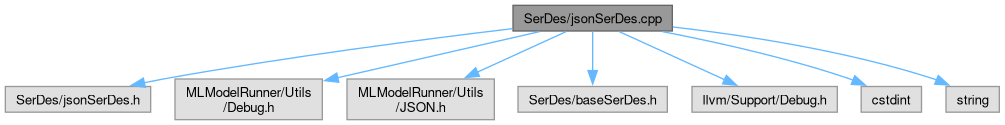
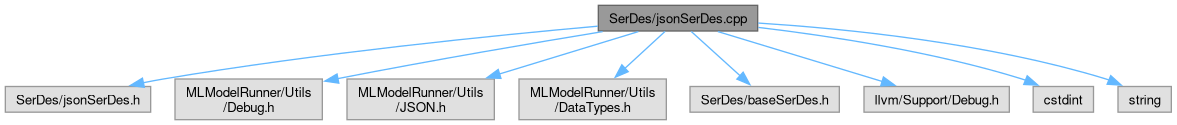
deploy: 6a7dd32515c90f0d645d4e1451f34c4dceefe4fa

Changed region(s): [[0.0, 0.024, 1.0, 0.984], [0.5244, 0.504, 0.5552, 0.6], [0.3393, 0.48, 0.401, 0.552]]

diff --git a/d7/db9/jsonSerDes_8cpp_source.html b/d7/db9/jsonSerDes_8cpp_source.html
@@ -93,131 +93,132 @@ $(function() { codefold.init(1); });
 <div class="line"><a id="l00007" name="l00007"></a><span class="lineno">    7</span><span class="preprocessor">#include &quot;SerDes/jsonSerDes.h&quot;</span></div>
 <div class="line"><a id="l00008" name="l00008"></a><span class="lineno">    8</span><span class="preprocessor">#include &quot;MLModelRunner/Utils/Debug.h&quot;</span></div>
 <div class="line"><a id="l00009" name="l00009"></a><span class="lineno">    9</span><span class="preprocessor">#include &quot;MLModelRunner/Utils/JSON.h&quot;</span></div>
-<div class="line"><a id="l00010" name="l00010"></a><span class="lineno">   10</span><span class="preprocessor">#include &quot;SerDes/baseSerDes.h&quot;</span></div>
-<div class="line"><a id="l00011" name="l00011"></a><span class="lineno">   11</span><span class="preprocessor">#include &quot;llvm/Support/Debug.h&quot;</span></div>
-<div class="line"><a id="l00012" name="l00012"></a><span class="lineno">   12</span><span class="preprocessor">#include &lt;cstdint&gt;</span></div>
-<div class="line"><a id="l00013" name="l00013"></a><span class="lineno">   13</span><span class="preprocessor">#include &lt;string&gt;</span></div>
-<div class="line"><a id="l00014" name="l00014"></a><span class="lineno">   14</span> </div>
-<div class="line"><a id="l00015" name="l00015"></a><span class="lineno"><a class="line" href="../../d7/db9/jsonSerDes_8cpp.html#ad78e062f62e0d6e453941fb4ca843e4d">   15</a></span><span class="preprocessor">#define DEBUG_TYPE &quot;json-serdes&quot;</span></div>
-<div class="line"><a id="l00016" name="l00016"></a><span class="lineno">   16</span> </div>
-<div class="line"><a id="l00017" name="l00017"></a><span class="lineno">   17</span><span class="keyword">using namespace </span><a class="code hl_namespace" href="../../d9/d4a/namespacellvm.html">llvm</a>;</div>
-<div class="line"><a id="l00018" name="l00018"></a><span class="lineno">   18</span> </div>
-<div class="line"><a id="l00019" name="l00019"></a><span class="lineno">   19</span><span class="keyword">namespace </span><a class="code hl_namespace" href="../../d5/d9c/namespaceMLBridge.html">MLBridge</a> {</div>
-<div class="line"><a id="l00020" name="l00020"></a><span class="lineno">   20</span><span class="keywordtype">void</span> *JsonSerDes::getSerializedData() {</div>
-<div class="line"><a id="l00021" name="l00021"></a><span class="lineno">   21</span>  <span class="keyword">auto</span> tempJO = J;</div>
-<div class="line"><a id="l00022" name="l00022"></a><span class="lineno">   22</span>  <span class="keyword">auto</span> data = json::Value(std::move(tempJO));</div>
-<div class="line"><a id="l00023" name="l00023"></a><span class="lineno">   23</span>  <span class="keyword">auto</span> *ret = <span class="keyword">new</span> std::string();</div>
-<div class="line"><a id="l00024" name="l00024"></a><span class="lineno">   24</span>  llvm::raw_string_ostream OS(*ret);</div>
-<div class="line"><a id="l00025" name="l00025"></a><span class="lineno">   25</span>  json::OStream(OS).value(data);</div>
-<div class="line"><a id="l00026" name="l00026"></a><span class="lineno">   26</span>  cleanDataStructures();</div>
-<div class="line"><a id="l00027" name="l00027"></a><span class="lineno">   27</span>  <span class="keywordflow">return</span> ret;</div>
-<div class="line"><a id="l00028" name="l00028"></a><span class="lineno">   28</span>}</div>
-<div class="line"><a id="l00029" name="l00029"></a><span class="lineno">   29</span> </div>
-<div class="line"><a id="l00030" name="l00030"></a><span class="lineno">   30</span><span class="keywordtype">void</span> *JsonSerDes::deserializeUntyped(<span class="keywordtype">void</span> *data) {</div>
-<div class="line"><a id="l00031" name="l00031"></a><span class="lineno">   31</span>  MLBRIDGE_DEBUG(std::cout &lt;&lt; <span class="stringliteral">&quot;In JsonSerDes deserializeUntyped...\n&quot;</span>);</div>
-<div class="line"><a id="l00032" name="l00032"></a><span class="lineno">   32</span>  <span class="keyword">auto</span> dataStr = <span class="keyword">static_cast&lt;</span>std::string *<span class="keyword">&gt;</span>(data);</div>
-<div class="line"><a id="l00033" name="l00033"></a><span class="lineno">   33</span>  MLBRIDGE_DEBUG(std::cout &lt;&lt; <span class="stringliteral">&quot;dataStr: &quot;</span> &lt;&lt; *dataStr &lt;&lt; <span class="stringliteral">&quot;\n&quot;</span>);</div>
-<div class="line"><a id="l00034" name="l00034"></a><span class="lineno">   34</span>  Expected&lt;json::Value&gt; valueOrErr = json::parse(*dataStr);</div>
-<div class="line"><a id="l00035" name="l00035"></a><span class="lineno">   35</span>  <span class="keywordflow">if</span> (!valueOrErr) {</div>
-<div class="line"><a id="l00036" name="l00036"></a><span class="lineno">   36</span>    <span class="keyword">auto</span> *ret = <span class="keyword">new</span> std::string();</div>
-<div class="line"><a id="l00037" name="l00037"></a><span class="lineno">   37</span>    llvm::raw_string_ostream SOS(*ret);</div>
-<div class="line"><a id="l00038" name="l00038"></a><span class="lineno">   38</span>    SOS &lt;&lt; <span class="stringliteral">&quot;Error parsing JSON: &quot;</span> &lt;&lt; valueOrErr.takeError() &lt;&lt; <span class="stringliteral">&quot;\n&quot;</span>;</div>
-<div class="line"><a id="l00039" name="l00039"></a><span class="lineno">   39</span>    std::cerr &lt;&lt; &amp;ret &lt;&lt; <span class="stringliteral">&quot;\n&quot;</span>;</div>
-<div class="line"><a id="l00040" name="l00040"></a><span class="lineno">   40</span>    exit(1);</div>
-<div class="line"><a id="l00041" name="l00041"></a><span class="lineno">   41</span>  }</div>
-<div class="line"><a id="l00042" name="l00042"></a><span class="lineno">   42</span>  json::Object *ret = valueOrErr-&gt;getAsObject();</div>
-<div class="line"><a id="l00043" name="l00043"></a><span class="lineno">   43</span>  <span class="keyword">auto</span> val = ret-&gt;get(<span class="stringliteral">&quot;out&quot;</span>);</div>
-<div class="line"><a id="l00044" name="l00044"></a><span class="lineno">   44</span>  MLBRIDGE_DEBUG(std::cout &lt;&lt; <span class="stringliteral">&quot;Got the final array...\n&quot;</span>;</div>
-<div class="line"><a id="l00045" name="l00045"></a><span class="lineno">   45</span>                 std::cout &lt;&lt; <span class="stringliteral">&quot;End JsonSerDes deserializeUntyped...\n&quot;</span>);</div>
-<div class="line"><a id="l00046" name="l00046"></a><span class="lineno">   46</span>  <span class="keywordflow">return</span> desJson(val);</div>
-<div class="line"><a id="l00047" name="l00047"></a><span class="lineno">   47</span>}</div>
-<div class="line"><a id="l00048" name="l00048"></a><span class="lineno">   48</span> </div>
-<div class="line"><a id="l00049" name="l00049"></a><span class="lineno">   49</span><span class="keywordtype">void</span> *JsonSerDes::desJson(json::Value *V) {</div>
-<div class="line"><a id="l00050" name="l00050"></a><span class="lineno">   50</span>  <span class="keywordflow">switch</span> (V-&gt;kind()) {</div>
-<div class="line"><a id="l00051" name="l00051"></a><span class="lineno">   51</span>  <span class="keywordflow">case</span> json::Value::Kind::Null:</div>
-<div class="line"><a id="l00052" name="l00052"></a><span class="lineno">   52</span>    <span class="keywordflow">return</span> <span class="keyword">nullptr</span>;</div>
-<div class="line"><a id="l00053" name="l00053"></a><span class="lineno">   53</span>  <span class="keywordflow">case</span> json::Value::Kind::Number: {</div>
-<div class="line"><a id="l00054" name="l00054"></a><span class="lineno">   54</span>    <span class="keywordflow">if</span> (<span class="keyword">auto</span> x = V-&gt;getAsInteger()) {</div>
-<div class="line"><a id="l00055" name="l00055"></a><span class="lineno">   55</span>      <span class="keywordtype">long</span> *ret = <span class="keyword">new</span> long();</div>
-<div class="line"><a id="l00056" name="l00056"></a><span class="lineno">   56</span>      *ret = x.value();</div>
-<div class="line"><a id="l00057" name="l00057"></a><span class="lineno">   57</span>      this-&gt;MessageLength = <span class="keyword">sizeof</span>(long);</div>
-<div class="line"><a id="l00058" name="l00058"></a><span class="lineno">   58</span>      <span class="keywordflow">return</span> ret;</div>
-<div class="line"><a id="l00059" name="l00059"></a><span class="lineno">   59</span>    } <span class="keywordflow">else</span> <span class="keywordflow">if</span> (<span class="keyword">auto</span> x = V-&gt;getAsNumber()) {</div>
-<div class="line"><a id="l00060" name="l00060"></a><span class="lineno">   60</span>      <span class="keywordtype">double</span> *ret = <span class="keyword">new</span> double();</div>
-<div class="line"><a id="l00061" name="l00061"></a><span class="lineno">   61</span>      *ret = x.value();</div>
-<div class="line"><a id="l00062" name="l00062"></a><span class="lineno">   62</span>      this-&gt;MessageLength = <span class="keyword">sizeof</span>(double);</div>
-<div class="line"><a id="l00063" name="l00063"></a><span class="lineno">   63</span>      <span class="keywordflow">return</span> ret;</div>
-<div class="line"><a id="l00064" name="l00064"></a><span class="lineno">   64</span>    } <span class="keywordflow">else</span> {</div>
-<div class="line"><a id="l00065" name="l00065"></a><span class="lineno">   65</span>      std::cerr &lt;&lt; <span class="stringliteral">&quot;Error in desJson: Number is not int, or double\n&quot;</span>;</div>
-<div class="line"><a id="l00066" name="l00066"></a><span class="lineno">   66</span>      exit(1);</div>
-<div class="line"><a id="l00067" name="l00067"></a><span class="lineno">   67</span>    }</div>
-<div class="line"><a id="l00068" name="l00068"></a><span class="lineno">   68</span>  }</div>
-<div class="line"><a id="l00069" name="l00069"></a><span class="lineno">   69</span>  <span class="keywordflow">case</span> json::Value::Kind::String: {</div>
-<div class="line"><a id="l00070" name="l00070"></a><span class="lineno">   70</span>    std::string *ret = <span class="keyword">new</span> std::string();</div>
-<div class="line"><a id="l00071" name="l00071"></a><span class="lineno">   71</span>    *ret = V-&gt;getAsString()-&gt;str();</div>
-<div class="line"><a id="l00072" name="l00072"></a><span class="lineno">   72</span>    this-&gt;MessageLength = ret-&gt;size() * <span class="keyword">sizeof</span>(char);</div>
-<div class="line"><a id="l00073" name="l00073"></a><span class="lineno">   73</span>    <span class="keywordflow">return</span> ret-&gt;data();</div>
-<div class="line"><a id="l00074" name="l00074"></a><span class="lineno">   74</span>  }</div>
-<div class="line"><a id="l00075" name="l00075"></a><span class="lineno">   75</span>  <span class="keywordflow">case</span> json::Value::Kind::Boolean: {</div>
-<div class="line"><a id="l00076" name="l00076"></a><span class="lineno">   76</span>    <span class="keywordtype">bool</span> *ret = <span class="keyword">new</span> bool();</div>
-<div class="line"><a id="l00077" name="l00077"></a><span class="lineno">   77</span>    *ret = V-&gt;getAsBoolean().value();</div>
-<div class="line"><a id="l00078" name="l00078"></a><span class="lineno">   78</span>    this-&gt;MessageLength = <span class="keyword">sizeof</span>(bool);</div>
-<div class="line"><a id="l00079" name="l00079"></a><span class="lineno">   79</span>    <span class="keywordflow">return</span> ret;</div>
-<div class="line"><a id="l00080" name="l00080"></a><span class="lineno">   80</span>  }</div>
-<div class="line"><a id="l00081" name="l00081"></a><span class="lineno">   81</span>  <span class="keywordflow">case</span> json::Value::Kind::Array: {</div>
-<div class="line"><a id="l00082" name="l00082"></a><span class="lineno">   82</span>    <span class="comment">// iterate over array and find its type</span></div>
-<div class="line"><a id="l00083" name="l00083"></a><span class="lineno">   83</span>    <span class="comment">// assume all elements are of same type and return vector of that type</span></div>
-<div class="line"><a id="l00084" name="l00084"></a><span class="lineno">   84</span>    <span class="comment">// if not, return nullptr</span></div>
-<div class="line"><a id="l00085" name="l00085"></a><span class="lineno">   85</span>    <span class="keyword">auto</span> arr = V-&gt;getAsArray();</div>
-<div class="line"><a id="l00086" name="l00086"></a><span class="lineno">   86</span> </div>
-<div class="line"><a id="l00087" name="l00087"></a><span class="lineno">   87</span>    <span class="keyword">auto</span> it = arr-&gt;begin();</div>
-<div class="line"><a id="l00088" name="l00088"></a><span class="lineno">   88</span>    <span class="keyword">auto</span> first = it;</div>
-<div class="line"><a id="l00089" name="l00089"></a><span class="lineno">   89</span>    <span class="keywordflow">switch</span> (first-&gt;kind()) {</div>
-<div class="line"><a id="l00090" name="l00090"></a><span class="lineno">   90</span>    <span class="keywordflow">case</span> json::Value::Kind::Number: {</div>
-<div class="line"><a id="l00091" name="l00091"></a><span class="lineno">   91</span>      <span class="keywordflow">if</span> (<span class="keyword">auto</span> x = first-&gt;getAsInteger()) {</div>
-<div class="line"><a id="l00092" name="l00092"></a><span class="lineno">   92</span>        std::vector&lt;long&gt; *ret = <span class="keyword">new</span> std::vector&lt;long&gt;();</div>
-<div class="line"><a id="l00093" name="l00093"></a><span class="lineno">   93</span>        <span class="keywordflow">for</span> (<span class="keyword">auto</span> it : *arr) {</div>
-<div class="line"><a id="l00094" name="l00094"></a><span class="lineno">   94</span>          ret-&gt;push_back(it.getAsInteger().value());</div>
-<div class="line"><a id="l00095" name="l00095"></a><span class="lineno">   95</span>        }</div>
-<div class="line"><a id="l00096" name="l00096"></a><span class="lineno">   96</span>        this-&gt;MessageLength = ret-&gt;size() * <span class="keyword">sizeof</span>(long);</div>
-<div class="line"><a id="l00097" name="l00097"></a><span class="lineno">   97</span>        <span class="keywordflow">return</span> ret-&gt;data();</div>
-<div class="line"><a id="l00098" name="l00098"></a><span class="lineno">   98</span>      } <span class="keywordflow">else</span> <span class="keywordflow">if</span> (<span class="keyword">auto</span> x = first-&gt;getAsNumber()) {</div>
-<div class="line"><a id="l00099" name="l00099"></a><span class="lineno">   99</span>        std::vector&lt;double&gt; *ret = <span class="keyword">new</span> std::vector&lt;double&gt;();</div>
-<div class="line"><a id="l00100" name="l00100"></a><span class="lineno">  100</span>        <span class="keywordflow">for</span> (<span class="keyword">auto</span> it : *arr) {</div>
-<div class="line"><a id="l00101" name="l00101"></a><span class="lineno">  101</span>          ret-&gt;push_back(it.getAsNumber().value());</div>
-<div class="line"><a id="l00102" name="l00102"></a><span class="lineno">  102</span>        }</div>
-<div class="line"><a id="l00103" name="l00103"></a><span class="lineno">  103</span>        this-&gt;MessageLength = ret-&gt;size() * <span class="keyword">sizeof</span>(double);</div>
-<div class="line"><a id="l00104" name="l00104"></a><span class="lineno">  104</span>        <span class="keywordflow">return</span> ret-&gt;data();</div>
-<div class="line"><a id="l00105" name="l00105"></a><span class="lineno">  105</span>      } <span class="keywordflow">else</span> {</div>
-<div class="line"><a id="l00106" name="l00106"></a><span class="lineno">  106</span>        std::cerr &lt;&lt; <span class="stringliteral">&quot;Error in desJson: Number is not int, or double\n&quot;</span>;</div>
-<div class="line"><a id="l00107" name="l00107"></a><span class="lineno">  107</span>        exit(1);</div>
-<div class="line"><a id="l00108" name="l00108"></a><span class="lineno">  108</span>      }</div>
-<div class="line"><a id="l00109" name="l00109"></a><span class="lineno">  109</span>    }</div>
-<div class="line"><a id="l00110" name="l00110"></a><span class="lineno">  110</span>    <span class="keywordflow">case</span> json::Value::Kind::String: {</div>
-<div class="line"><a id="l00111" name="l00111"></a><span class="lineno">  111</span>      std::vector&lt;std::string&gt; *ret = <span class="keyword">new</span> std::vector&lt;std::string&gt;();</div>
-<div class="line"><a id="l00112" name="l00112"></a><span class="lineno">  112</span>      <span class="keywordflow">for</span> (<span class="keyword">auto</span> it : *arr) {</div>
-<div class="line"><a id="l00113" name="l00113"></a><span class="lineno">  113</span>        ret-&gt;push_back(it.getAsString()-&gt;str());</div>
-<div class="line"><a id="l00114" name="l00114"></a><span class="lineno">  114</span>      }</div>
-<div class="line"><a id="l00115" name="l00115"></a><span class="lineno">  115</span>      this-&gt;MessageLength = ret-&gt;size() * <span class="keyword">sizeof</span>(std::string);</div>
-<div class="line"><a id="l00116" name="l00116"></a><span class="lineno">  116</span>      <span class="keywordflow">return</span> ret-&gt;data();</div>
-<div class="line"><a id="l00117" name="l00117"></a><span class="lineno">  117</span>    }</div>
-<div class="line"><a id="l00118" name="l00118"></a><span class="lineno">  118</span>    <span class="keywordflow">case</span> json::Value::Kind::Boolean: {</div>
-<div class="line"><a id="l00119" name="l00119"></a><span class="lineno">  119</span>      std::vector&lt;uint8_t&gt; *ret = <span class="keyword">new</span> std::vector&lt;uint8_t&gt;();</div>
-<div class="line"><a id="l00120" name="l00120"></a><span class="lineno">  120</span>      <span class="keywordflow">for</span> (<span class="keyword">auto</span> it : *arr) {</div>
-<div class="line"><a id="l00121" name="l00121"></a><span class="lineno">  121</span>        ret-&gt;push_back(it.getAsBoolean().value());</div>
-<div class="line"><a id="l00122" name="l00122"></a><span class="lineno">  122</span>      }</div>
-<div class="line"><a id="l00123" name="l00123"></a><span class="lineno">  123</span>      this-&gt;MessageLength = ret-&gt;size() * <span class="keyword">sizeof</span>(uint8_t);</div>
-<div class="line"><a id="l00124" name="l00124"></a><span class="lineno">  124</span>      <span class="keywordflow">return</span> ret-&gt;data();</div>
-<div class="line"><a id="l00125" name="l00125"></a><span class="lineno">  125</span>    }</div>
-<div class="line"><a id="l00126" name="l00126"></a><span class="lineno">  126</span>    <span class="keywordflow">default</span>: {</div>
-<div class="line"><a id="l00127" name="l00127"></a><span class="lineno">  127</span>      std::cerr &lt;&lt; <span class="stringliteral">&quot;Error in desJson: Array is not of supported type\n&quot;</span>;</div>
-<div class="line"><a id="l00128" name="l00128"></a><span class="lineno">  128</span>      exit(1);</div>
-<div class="line"><a id="l00129" name="l00129"></a><span class="lineno">  129</span>    }</div>
+<div class="line"><a id="l00010" name="l00010"></a><span class="lineno">   10</span><span class="preprocessor">#include &quot;MLModelRunner/Utils/DataTypes.h&quot;</span></div>
+<div class="line"><a id="l00011" name="l00011"></a><span class="lineno">   11</span><span class="preprocessor">#include &quot;SerDes/baseSerDes.h&quot;</span></div>
+<div class="line"><a id="l00012" name="l00012"></a><span class="lineno">   12</span><span class="preprocessor">#include &quot;llvm/Support/Debug.h&quot;</span></div>
+<div class="line"><a id="l00013" name="l00013"></a><span class="lineno">   13</span><span class="preprocessor">#include &lt;cstdint&gt;</span></div>
+<div class="line"><a id="l00014" name="l00014"></a><span class="lineno">   14</span><span class="preprocessor">#include &lt;string&gt;</span></div>
+<div class="line"><a id="l00015" name="l00015"></a><span class="lineno">   15</span> </div>
+<div class="line"><a id="l00016" name="l00016"></a><span class="lineno"><a class="line" href="../../d7/db9/jsonSerDes_8cpp.html#ad78e062f62e0d6e453941fb4ca843e4d">   16</a></span><span class="preprocessor">#define DEBUG_TYPE &quot;json-serdes&quot;</span></div>
+<div class="line"><a id="l00017" name="l00017"></a><span class="lineno">   17</span> </div>
+<div class="line"><a id="l00018" name="l00018"></a><span class="lineno">   18</span><span class="keyword">using namespace </span><a class="code hl_namespace" href="../../d9/d4a/namespacellvm.html">llvm</a>;</div>
+<div class="line"><a id="l00019" name="l00019"></a><span class="lineno">   19</span> </div>
+<div class="line"><a id="l00020" name="l00020"></a><span class="lineno">   20</span><span class="keyword">namespace </span><a class="code hl_namespace" href="../../d5/d9c/namespaceMLBridge.html">MLBridge</a> {</div>
+<div class="line"><a id="l00021" name="l00021"></a><span class="lineno">   21</span><span class="keywordtype">void</span> *JsonSerDes::getSerializedData() {</div>
+<div class="line"><a id="l00022" name="l00022"></a><span class="lineno">   22</span>  <span class="keyword">auto</span> tempJO = J;</div>
+<div class="line"><a id="l00023" name="l00023"></a><span class="lineno">   23</span>  <span class="keyword">auto</span> data = json::Value(std::move(tempJO));</div>
+<div class="line"><a id="l00024" name="l00024"></a><span class="lineno">   24</span>  <span class="keyword">auto</span> *ret = <span class="keyword">new</span> std::string();</div>
+<div class="line"><a id="l00025" name="l00025"></a><span class="lineno">   25</span>  llvm::raw_string_ostream OS(*ret);</div>
+<div class="line"><a id="l00026" name="l00026"></a><span class="lineno">   26</span>  json::OStream(OS).value(data);</div>
+<div class="line"><a id="l00027" name="l00027"></a><span class="lineno">   27</span>  cleanDataStructures();</div>
+<div class="line"><a id="l00028" name="l00028"></a><span class="lineno">   28</span>  <span class="keywordflow">return</span> ret;</div>
+<div class="line"><a id="l00029" name="l00029"></a><span class="lineno">   29</span>}</div>
+<div class="line"><a id="l00030" name="l00030"></a><span class="lineno">   30</span> </div>
+<div class="line"><a id="l00031" name="l00031"></a><span class="lineno">   31</span><span class="keywordtype">void</span> *JsonSerDes::deserializeUntyped(<span class="keywordtype">void</span> *data) {</div>
+<div class="line"><a id="l00032" name="l00032"></a><span class="lineno">   32</span>  MLBRIDGE_DEBUG(std::cout &lt;&lt; <span class="stringliteral">&quot;In JsonSerDes deserializeUntyped...\n&quot;</span>);</div>
+<div class="line"><a id="l00033" name="l00033"></a><span class="lineno">   33</span>  <span class="keyword">auto</span> dataStr = <span class="keyword">static_cast&lt;</span>std::string *<span class="keyword">&gt;</span>(data);</div>
+<div class="line"><a id="l00034" name="l00034"></a><span class="lineno">   34</span>  MLBRIDGE_DEBUG(std::cout &lt;&lt; <span class="stringliteral">&quot;dataStr: &quot;</span> &lt;&lt; *dataStr &lt;&lt; <span class="stringliteral">&quot;\n&quot;</span>);</div>
+<div class="line"><a id="l00035" name="l00035"></a><span class="lineno">   35</span>  Expected&lt;json::Value&gt; valueOrErr = json::parse(*dataStr);</div>
+<div class="line"><a id="l00036" name="l00036"></a><span class="lineno">   36</span>  <span class="keywordflow">if</span> (!valueOrErr) {</div>
+<div class="line"><a id="l00037" name="l00037"></a><span class="lineno">   37</span>    <span class="keyword">auto</span> *ret = <span class="keyword">new</span> std::string();</div>
+<div class="line"><a id="l00038" name="l00038"></a><span class="lineno">   38</span>    llvm::raw_string_ostream SOS(*ret);</div>
+<div class="line"><a id="l00039" name="l00039"></a><span class="lineno">   39</span>    SOS &lt;&lt; <span class="stringliteral">&quot;Error parsing JSON: &quot;</span> &lt;&lt; valueOrErr.takeError() &lt;&lt; <span class="stringliteral">&quot;\n&quot;</span>;</div>
+<div class="line"><a id="l00040" name="l00040"></a><span class="lineno">   40</span>    std::cerr &lt;&lt; &amp;ret &lt;&lt; <span class="stringliteral">&quot;\n&quot;</span>;</div>
+<div class="line"><a id="l00041" name="l00041"></a><span class="lineno">   41</span>    exit(1);</div>
+<div class="line"><a id="l00042" name="l00042"></a><span class="lineno">   42</span>  }</div>
+<div class="line"><a id="l00043" name="l00043"></a><span class="lineno">   43</span>  json::Object *ret = valueOrErr-&gt;getAsObject();</div>
+<div class="line"><a id="l00044" name="l00044"></a><span class="lineno">   44</span>  <span class="keyword">auto</span> val = ret-&gt;get(<span class="stringliteral">&quot;out&quot;</span>);</div>
+<div class="line"><a id="l00045" name="l00045"></a><span class="lineno">   45</span>  MLBRIDGE_DEBUG(std::cout &lt;&lt; <span class="stringliteral">&quot;Got the final array...\n&quot;</span>;</div>
+<div class="line"><a id="l00046" name="l00046"></a><span class="lineno">   46</span>                 std::cout &lt;&lt; <span class="stringliteral">&quot;End JsonSerDes deserializeUntyped...\n&quot;</span>);</div>
+<div class="line"><a id="l00047" name="l00047"></a><span class="lineno">   47</span>  <span class="keywordflow">return</span> desJson(val);</div>
+<div class="line"><a id="l00048" name="l00048"></a><span class="lineno">   48</span>}</div>
+<div class="line"><a id="l00049" name="l00049"></a><span class="lineno">   49</span> </div>
+<div class="line"><a id="l00050" name="l00050"></a><span class="lineno">   50</span><span class="keywordtype">void</span> *JsonSerDes::desJson(json::Value *V) {</div>
+<div class="line"><a id="l00051" name="l00051"></a><span class="lineno">   51</span>  <span class="keywordflow">switch</span> (V-&gt;kind()) {</div>
+<div class="line"><a id="l00052" name="l00052"></a><span class="lineno">   52</span>  <span class="keywordflow">case</span> json::Value::Kind::Null:</div>
+<div class="line"><a id="l00053" name="l00053"></a><span class="lineno">   53</span>    <span class="keywordflow">return</span> <span class="keyword">nullptr</span>;</div>
+<div class="line"><a id="l00054" name="l00054"></a><span class="lineno">   54</span>  <span class="keywordflow">case</span> json::Value::Kind::Number: {</div>
+<div class="line"><a id="l00055" name="l00055"></a><span class="lineno">   55</span>    <span class="keywordflow">if</span> (<span class="keyword">auto</span> x = V-&gt;getAsInteger()) {</div>
+<div class="line"><a id="l00056" name="l00056"></a><span class="lineno">   56</span>      IntegerType *ret = <span class="keyword">new</span> IntegerType();</div>
+<div class="line"><a id="l00057" name="l00057"></a><span class="lineno">   57</span>      *ret = x.value();</div>
+<div class="line"><a id="l00058" name="l00058"></a><span class="lineno">   58</span>      this-&gt;MessageLength = <span class="keyword">sizeof</span>(IntegerType);</div>
+<div class="line"><a id="l00059" name="l00059"></a><span class="lineno">   59</span>      <span class="keywordflow">return</span> ret;</div>
+<div class="line"><a id="l00060" name="l00060"></a><span class="lineno">   60</span>    } <span class="keywordflow">else</span> <span class="keywordflow">if</span> (<span class="keyword">auto</span> x = V-&gt;getAsNumber()) {</div>
+<div class="line"><a id="l00061" name="l00061"></a><span class="lineno">   61</span>      RealType *ret = <span class="keyword">new</span> RealType();</div>
+<div class="line"><a id="l00062" name="l00062"></a><span class="lineno">   62</span>      *ret = x.value();</div>
+<div class="line"><a id="l00063" name="l00063"></a><span class="lineno">   63</span>      this-&gt;MessageLength = <span class="keyword">sizeof</span>(RealType);</div>
+<div class="line"><a id="l00064" name="l00064"></a><span class="lineno">   64</span>      <span class="keywordflow">return</span> ret;</div>
+<div class="line"><a id="l00065" name="l00065"></a><span class="lineno">   65</span>    } <span class="keywordflow">else</span> {</div>
+<div class="line"><a id="l00066" name="l00066"></a><span class="lineno">   66</span>      std::cerr &lt;&lt; <span class="stringliteral">&quot;Error in desJson: Number is not int, or double\n&quot;</span>;</div>
+<div class="line"><a id="l00067" name="l00067"></a><span class="lineno">   67</span>      exit(1);</div>
+<div class="line"><a id="l00068" name="l00068"></a><span class="lineno">   68</span>    }</div>
+<div class="line"><a id="l00069" name="l00069"></a><span class="lineno">   69</span>  }</div>
+<div class="line"><a id="l00070" name="l00070"></a><span class="lineno">   70</span>  <span class="keywordflow">case</span> json::Value::Kind::String: {</div>
+<div class="line"><a id="l00071" name="l00071"></a><span class="lineno">   71</span>    std::string *ret = <span class="keyword">new</span> std::string();</div>
+<div class="line"><a id="l00072" name="l00072"></a><span class="lineno">   72</span>    *ret = V-&gt;getAsString()-&gt;str();</div>
+<div class="line"><a id="l00073" name="l00073"></a><span class="lineno">   73</span>    this-&gt;MessageLength = ret-&gt;size() * <span class="keyword">sizeof</span>(char);</div>
+<div class="line"><a id="l00074" name="l00074"></a><span class="lineno">   74</span>    <span class="keywordflow">return</span> ret-&gt;data();</div>
+<div class="line"><a id="l00075" name="l00075"></a><span class="lineno">   75</span>  }</div>
+<div class="line"><a id="l00076" name="l00076"></a><span class="lineno">   76</span>  <span class="keywordflow">case</span> json::Value::Kind::Boolean: {</div>
+<div class="line"><a id="l00077" name="l00077"></a><span class="lineno">   77</span>    <span class="keywordtype">bool</span> *ret = <span class="keyword">new</span> bool();</div>
+<div class="line"><a id="l00078" name="l00078"></a><span class="lineno">   78</span>    *ret = V-&gt;getAsBoolean().value();</div>
+<div class="line"><a id="l00079" name="l00079"></a><span class="lineno">   79</span>    this-&gt;MessageLength = <span class="keyword">sizeof</span>(bool);</div>
+<div class="line"><a id="l00080" name="l00080"></a><span class="lineno">   80</span>    <span class="keywordflow">return</span> ret;</div>
+<div class="line"><a id="l00081" name="l00081"></a><span class="lineno">   81</span>  }</div>
+<div class="line"><a id="l00082" name="l00082"></a><span class="lineno">   82</span>  <span class="keywordflow">case</span> json::Value::Kind::Array: {</div>
+<div class="line"><a id="l00083" name="l00083"></a><span class="lineno">   83</span>    <span class="comment">// iterate over array and find its type</span></div>
+<div class="line"><a id="l00084" name="l00084"></a><span class="lineno">   84</span>    <span class="comment">// assume all elements are of same type and return vector of that type</span></div>
+<div class="line"><a id="l00085" name="l00085"></a><span class="lineno">   85</span>    <span class="comment">// if not, return nullptr</span></div>
+<div class="line"><a id="l00086" name="l00086"></a><span class="lineno">   86</span>    <span class="keyword">auto</span> arr = V-&gt;getAsArray();</div>
+<div class="line"><a id="l00087" name="l00087"></a><span class="lineno">   87</span> </div>
+<div class="line"><a id="l00088" name="l00088"></a><span class="lineno">   88</span>    <span class="keyword">auto</span> it = arr-&gt;begin();</div>
+<div class="line"><a id="l00089" name="l00089"></a><span class="lineno">   89</span>    <span class="keyword">auto</span> first = it;</div>
+<div class="line"><a id="l00090" name="l00090"></a><span class="lineno">   90</span>    <span class="keywordflow">switch</span> (first-&gt;kind()) {</div>
+<div class="line"><a id="l00091" name="l00091"></a><span class="lineno">   91</span>    <span class="keywordflow">case</span> json::Value::Kind::Number: {</div>
+<div class="line"><a id="l00092" name="l00092"></a><span class="lineno">   92</span>      <span class="keywordflow">if</span> (<span class="keyword">auto</span> x = first-&gt;getAsInteger()) {</div>
+<div class="line"><a id="l00093" name="l00093"></a><span class="lineno">   93</span>        std::vector&lt;IntegerType&gt; *ret = <span class="keyword">new</span> std::vector&lt;IntegerType&gt;();</div>
+<div class="line"><a id="l00094" name="l00094"></a><span class="lineno">   94</span>        <span class="keywordflow">for</span> (<span class="keyword">auto</span> it : *arr) {</div>
+<div class="line"><a id="l00095" name="l00095"></a><span class="lineno">   95</span>          ret-&gt;push_back(it.getAsInteger().value());</div>
+<div class="line"><a id="l00096" name="l00096"></a><span class="lineno">   96</span>        }</div>
+<div class="line"><a id="l00097" name="l00097"></a><span class="lineno">   97</span>        this-&gt;MessageLength = ret-&gt;size() * <span class="keyword">sizeof</span>(IntegerType);</div>
+<div class="line"><a id="l00098" name="l00098"></a><span class="lineno">   98</span>        <span class="keywordflow">return</span> ret-&gt;data();</div>
+<div class="line"><a id="l00099" name="l00099"></a><span class="lineno">   99</span>      } <span class="keywordflow">else</span> <span class="keywordflow">if</span> (<span class="keyword">auto</span> x = first-&gt;getAsNumber()) {</div>
+<div class="line"><a id="l00100" name="l00100"></a><span class="lineno">  100</span>        std::vector&lt;RealType&gt; *ret = <span class="keyword">new</span> std::vector&lt;RealType&gt;();</div>
+<div class="line"><a id="l00101" name="l00101"></a><span class="lineno">  101</span>        <span class="keywordflow">for</span> (<span class="keyword">auto</span> it : *arr) {</div>
+<div class="line"><a id="l00102" name="l00102"></a><span class="lineno">  102</span>          ret-&gt;push_back(it.getAsNumber().value());</div>
+<div class="line"><a id="l00103" name="l00103"></a><span class="lineno">  103</span>        }</div>
+<div class="line"><a id="l00104" name="l00104"></a><span class="lineno">  104</span>        this-&gt;MessageLength = ret-&gt;size() * <span class="keyword">sizeof</span>(RealType);</div>
+<div class="line"><a id="l00105" name="l00105"></a><span class="lineno">  105</span>        <span class="keywordflow">return</span> ret-&gt;data();</div>
+<div class="line"><a id="l00106" name="l00106"></a><span class="lineno">  106</span>      } <span class="keywordflow">else</span> {</div>
+<div class="line"><a id="l00107" name="l00107"></a><span class="lineno">  107</span>        std::cerr &lt;&lt; <span class="stringliteral">&quot;Error in desJson: Number is not int, or double\n&quot;</span>;</div>
+<div class="line"><a id="l00108" name="l00108"></a><span class="lineno">  108</span>        exit(1);</div>
+<div class="line"><a id="l00109" name="l00109"></a><span class="lineno">  109</span>      }</div>
+<div class="line"><a id="l00110" name="l00110"></a><span class="lineno">  110</span>    }</div>
+<div class="line"><a id="l00111" name="l00111"></a><span class="lineno">  111</span>    <span class="keywordflow">case</span> json::Value::Kind::String: {</div>
+<div class="line"><a id="l00112" name="l00112"></a><span class="lineno">  112</span>      std::vector&lt;std::string&gt; *ret = <span class="keyword">new</span> std::vector&lt;std::string&gt;();</div>
+<div class="line"><a id="l00113" name="l00113"></a><span class="lineno">  113</span>      <span class="keywordflow">for</span> (<span class="keyword">auto</span> it : *arr) {</div>
+<div class="line"><a id="l00114" name="l00114"></a><span class="lineno">  114</span>        ret-&gt;push_back(it.getAsString()-&gt;str());</div>
+<div class="line"><a id="l00115" name="l00115"></a><span class="lineno">  115</span>      }</div>
+<div class="line"><a id="l00116" name="l00116"></a><span class="lineno">  116</span>      this-&gt;MessageLength = ret-&gt;size() * <span class="keyword">sizeof</span>(std::string);</div>
+<div class="line"><a id="l00117" name="l00117"></a><span class="lineno">  117</span>      <span class="keywordflow">return</span> ret-&gt;data();</div>
+<div class="line"><a id="l00118" name="l00118"></a><span class="lineno">  118</span>    }</div>
+<div class="line"><a id="l00119" name="l00119"></a><span class="lineno">  119</span>    <span class="keywordflow">case</span> json::Value::Kind::Boolean: {</div>
+<div class="line"><a id="l00120" name="l00120"></a><span class="lineno">  120</span>      std::vector&lt;uint8_t&gt; *ret = <span class="keyword">new</span> std::vector&lt;uint8_t&gt;();</div>
+<div class="line"><a id="l00121" name="l00121"></a><span class="lineno">  121</span>      <span class="keywordflow">for</span> (<span class="keyword">auto</span> it : *arr) {</div>
+<div class="line"><a id="l00122" name="l00122"></a><span class="lineno">  122</span>        ret-&gt;push_back(it.getAsBoolean().value());</div>
+<div class="line"><a id="l00123" name="l00123"></a><span class="lineno">  123</span>      }</div>
+<div class="line"><a id="l00124" name="l00124"></a><span class="lineno">  124</span>      this-&gt;MessageLength = ret-&gt;size() * <span class="keyword">sizeof</span>(uint8_t);</div>
+<div class="line"><a id="l00125" name="l00125"></a><span class="lineno">  125</span>      <span class="keywordflow">return</span> ret-&gt;data();</div>
+<div class="line"><a id="l00126" name="l00126"></a><span class="lineno">  126</span>    }</div>
+<div class="line"><a id="l00127" name="l00127"></a><span class="lineno">  127</span>    <span class="keywordflow">default</span>: {</div>
+<div class="line"><a id="l00128" name="l00128"></a><span class="lineno">  128</span>      std::cerr &lt;&lt; <span class="stringliteral">&quot;Error in desJson: Array is not of supported type\n&quot;</span>;</div>
+<div class="line"><a id="l00129" name="l00129"></a><span class="lineno">  129</span>      exit(1);</div>
 <div class="line"><a id="l00130" name="l00130"></a><span class="lineno">  130</span>    }</div>
-<div class="line"><a id="l00131" name="l00131"></a><span class="lineno">  131</span>  }</div>
+<div class="line"><a id="l00131" name="l00131"></a><span class="lineno">  131</span>    }</div>
 <div class="line"><a id="l00132" name="l00132"></a><span class="lineno">  132</span>  }</div>
-<div class="line"><a id="l00133" name="l00133"></a><span class="lineno">  133</span>}</div>
-<div class="line"><a id="l00134" name="l00134"></a><span class="lineno">  134</span>} <span class="comment">// namespace MLBridge</span></div>
+<div class="line"><a id="l00133" name="l00133"></a><span class="lineno">  133</span>  }</div>
+<div class="line"><a id="l00134" name="l00134"></a><span class="lineno">  134</span>}</div>
+<div class="line"><a id="l00135" name="l00135"></a><span class="lineno">  135</span>} <span class="comment">// namespace MLBridge</span></div>
 <div class="ttc" id="anamespaceMLBridge_html"><div class="ttname"><a href="../../d5/d9c/namespaceMLBridge.html">MLBridge</a></div><div class="ttdef"><b>Definition</b> <a href="../../dd/d3d/agent_8cpp_source.html#l00015">agent.cpp:15</a></div></div>
 <div class="ttc" id="anamespacellvm_html"><div class="ttname"><a href="../../d9/d4a/namespacellvm.html">llvm</a></div><div class="ttdef"><b>Definition</b> <a href="../../dc/d1d/JSON_8cpp_source.html#l00021">JSON.cpp:21</a></div></div>
 </div><!-- fragment --></div><!-- contents -->

diff --git a/d7/db9/jsonSerDes_8cpp.html b/d7/db9/jsonSerDes_8cpp.html
@@ -85,6 +85,7 @@ $(function() {
 <div class="textblock"><code>#include &quot;SerDes/jsonSerDes.h&quot;</code><br />
 <code>#include &quot;MLModelRunner/Utils/Debug.h&quot;</code><br />
 <code>#include &quot;MLModelRunner/Utils/JSON.h&quot;</code><br />
+<code>#include &quot;MLModelRunner/Utils/DataTypes.h&quot;</code><br />
 <code>#include &quot;SerDes/baseSerDes.h&quot;</code><br />
 <code>#include &quot;llvm/Support/Debug.h&quot;</code><br />
 <code>#include &lt;cstdint&gt;</code><br />
@@ -94,21 +95,23 @@ Include dependency graph for jsonSerDes.cpp:</div>
 <div class="dyncontent">
 <div class="center"><img src="../../de/ddc/jsonSerDes_8cpp__incl.png" border="0" usemap="#aSerDes_2jsonSerDes_8cpp" alt=""/></div>
 <map name="aSerDes_2jsonSerDes_8cpp" id="aSerDes_2jsonSerDes_8cpp">
-<area shape="rect" title=" " alt="" coords="513,5,672,31"/>
+<area shape="rect" title=" " alt="" coords="598,5,758,31"/>
 <area shape="rect" title=" " alt="" coords="5,87,151,112"/>
-<area shape="poly" title=" " alt="" coords="513,31,351,52,164,82,145,85,144,80,163,76,350,47,512,26"/>
+<area shape="poly" title=" " alt="" coords="598,29,400,49,164,82,144,85,143,80,163,76,399,44,598,24"/>
 <area shape="rect" title=" " alt="" coords="175,79,322,120"/>
-<area shape="poly" title=" " alt="" coords="540,34,338,80,337,75,539,29"/>
+<area shape="poly" title=" " alt="" coords="603,34,338,81,337,76,602,29"/>
 <area shape="rect" title=" " alt="" coords="347,79,494,120"/>
-<area shape="poly" title=" " alt="" coords="567,34,478,75,476,70,565,29"/>
-<area shape="rect" title=" " alt="" coords="518,87,667,112"/>
-<area shape="poly" title=" " alt="" coords="595,31,595,71,590,71,590,31"/>
-<area shape="rect" title=" " alt="" coords="692,87,837,112"/>
-<area shape="poly" title=" " alt="" coords="620,29,726,77,723,82,618,34"/>
-<area shape="rect" title=" " alt="" coords="861,87,922,112"/>
-<area shape="poly" title=" " alt="" coords="663,29,753,49,851,76,854,78,852,83,849,82,752,54,662,34"/>
-<area shape="rect" title=" " alt="" coords="946,87,999,112"/>
-<area shape="poly" title=" " alt="" coords="673,24,798,43,867,57,935,76,937,77,936,82,933,82,866,63,797,48,672,30"/>
+<area shape="poly" title=" " alt="" coords="639,34,500,77,499,71,638,29"/>
+<area shape="rect" title=" " alt="" coords="519,79,666,120"/>
+<area shape="poly" title=" " alt="" coords="667,33,627,70,623,66,663,29"/>
+<area shape="rect" title=" " alt="" coords="690,87,839,112"/>
+<area shape="poly" title=" " alt="" coords="693,29,742,74,738,78,689,33"/>
+<area shape="rect" title=" " alt="" coords="864,87,1009,112"/>
+<area shape="poly" title=" " alt="" coords="719,29,883,79,882,84,717,34"/>
+<area shape="rect" title=" " alt="" coords="1033,87,1094,112"/>
+<area shape="poly" title=" " alt="" coords="759,25,884,43,954,58,1023,76,1027,78,1025,83,1021,82,953,63,883,49,758,30"/>
+<area shape="rect" title=" " alt="" coords="1118,87,1171,112"/>
+<area shape="poly" title=" " alt="" coords="758,20,921,37,1015,53,1107,76,1110,78,1108,83,1105,82,1014,58,920,42,758,26"/>
 </map>
 </div>
 </div>
@@ -137,7 +140,7 @@ Macros</h2></td></tr>
       </table>
 </div><div class="memdoc">
 
-<p class="definition">Definition at line <a class="el" href="../../d7/db9/jsonSerDes_8cpp_source.html#l00015">15</a> of file <a class="el" href="../../d7/db9/jsonSerDes_8cpp_source.html">jsonSerDes.cpp</a>.</p>
+<p class="definition">Definition at line <a class="el" href="../../d7/db9/jsonSerDes_8cpp_source.html#l00016">16</a> of file <a class="el" href="../../d7/db9/jsonSerDes_8cpp_source.html">jsonSerDes.cpp</a>.</p>
 
 </div>
 </div>
